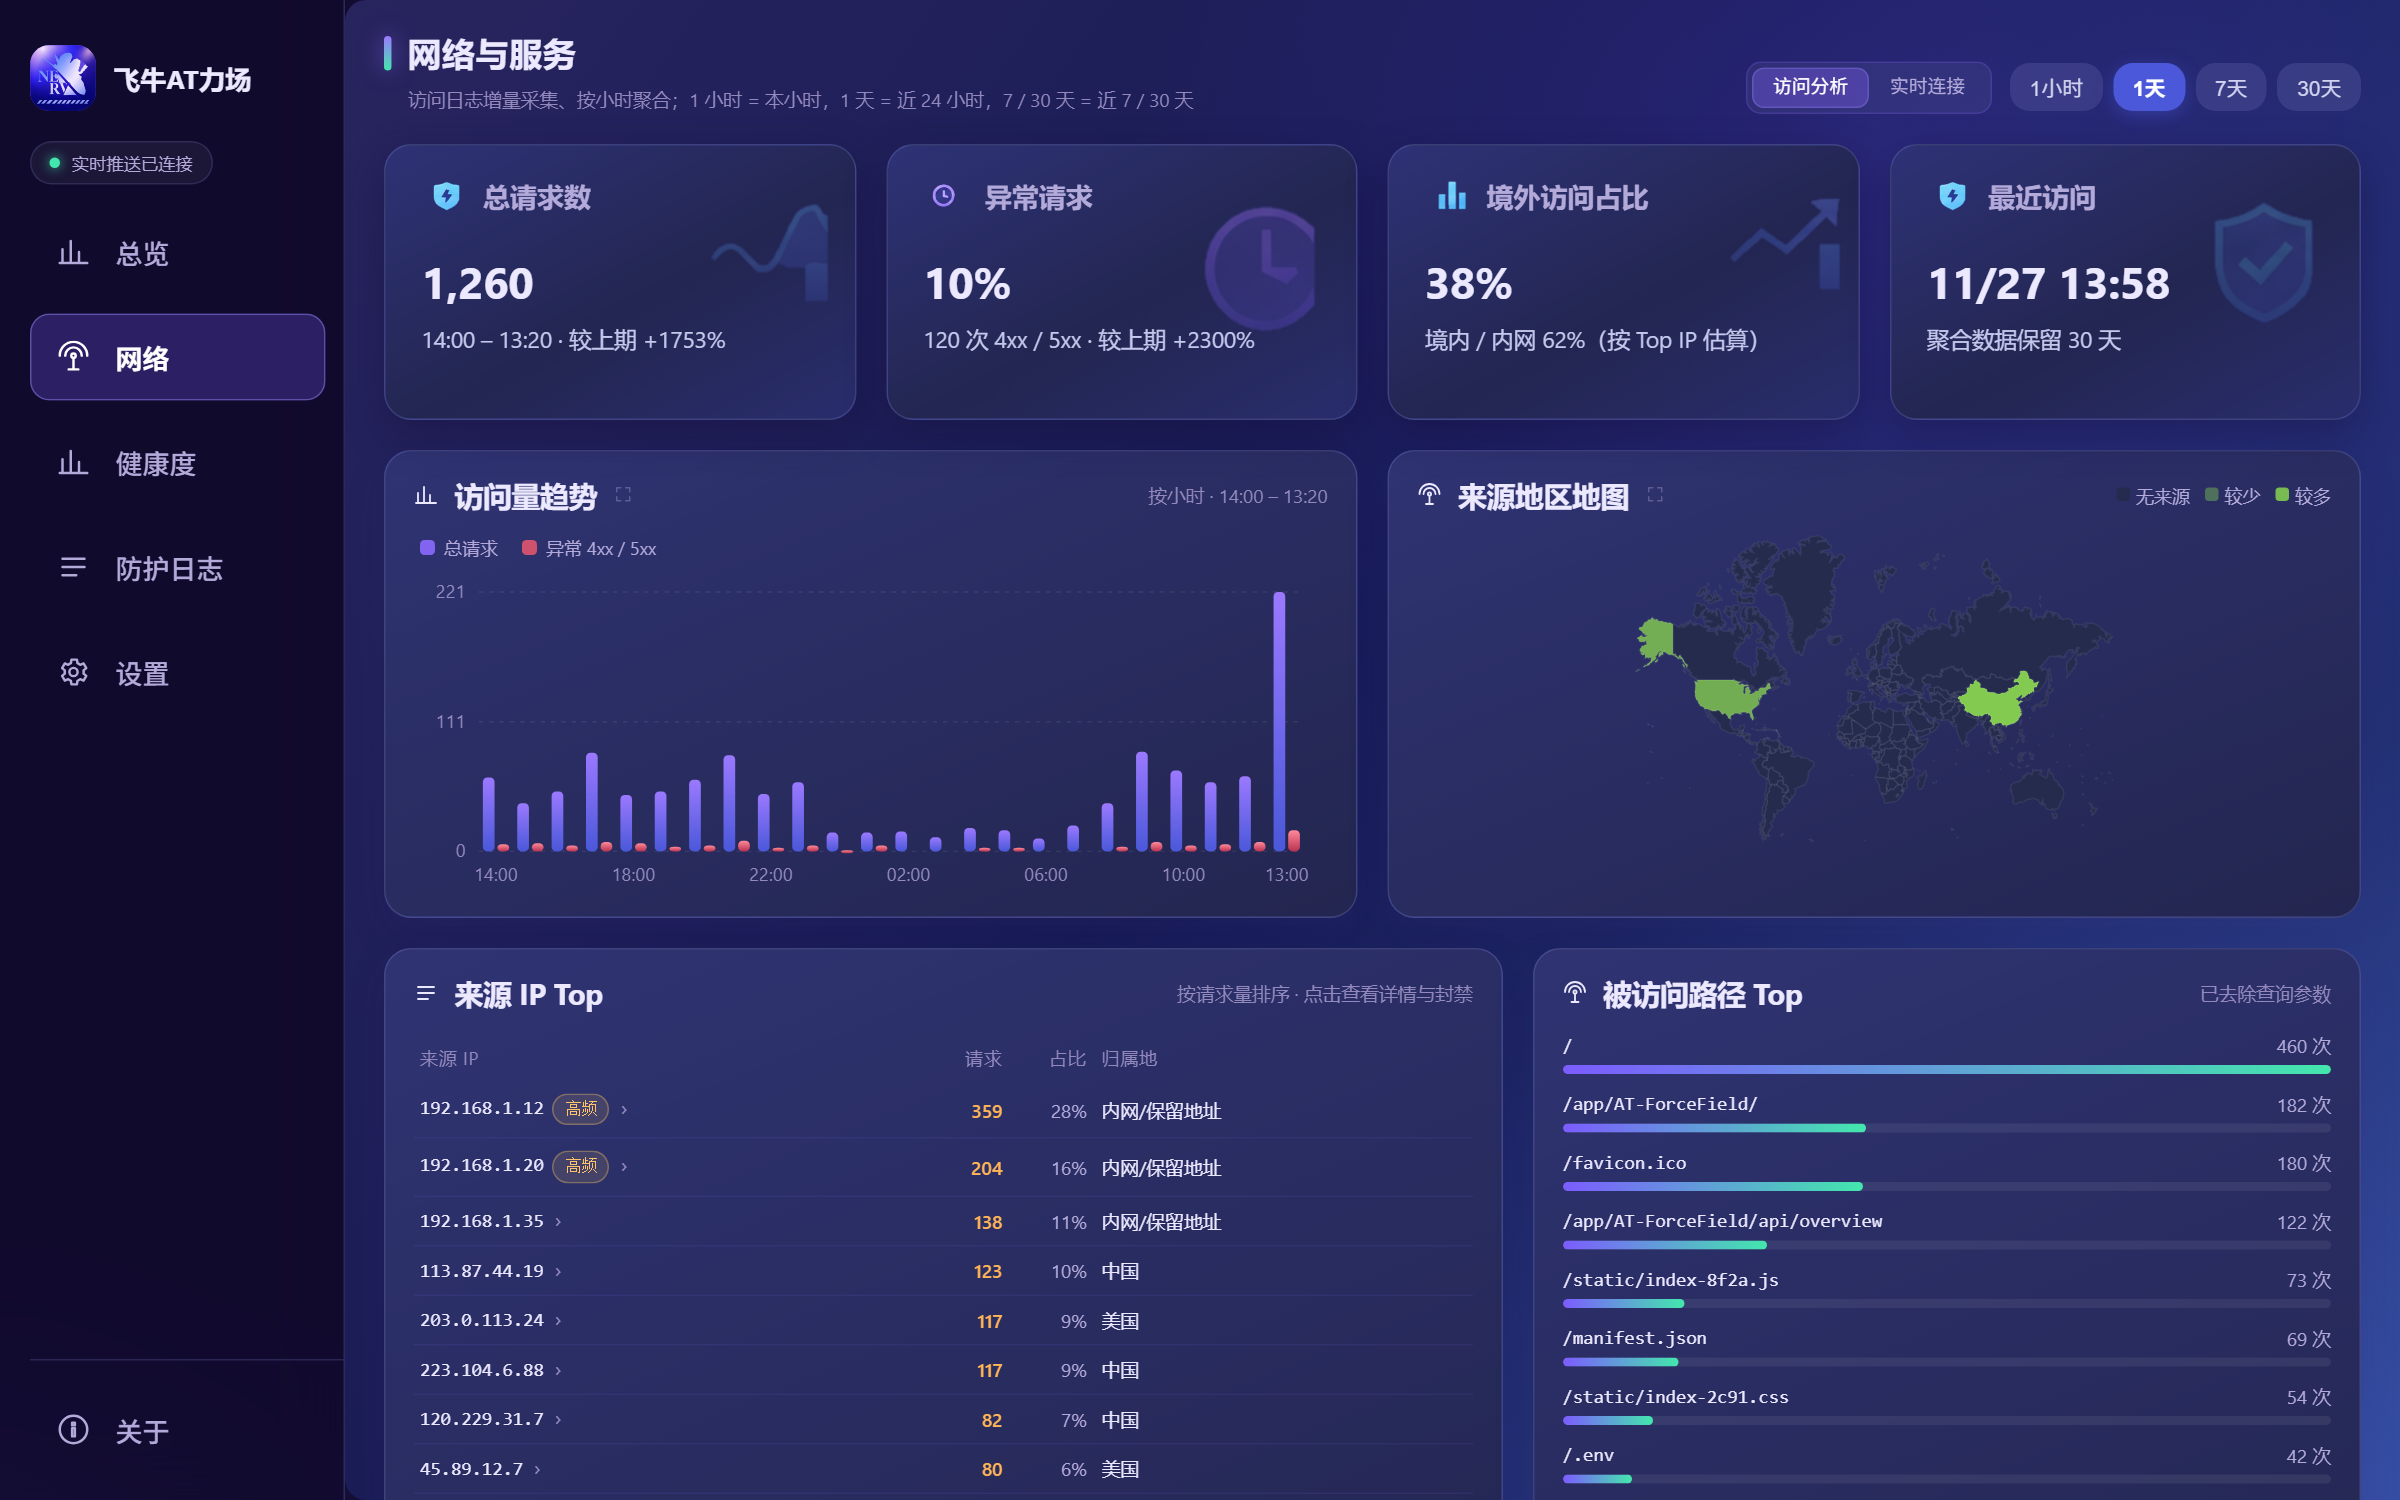
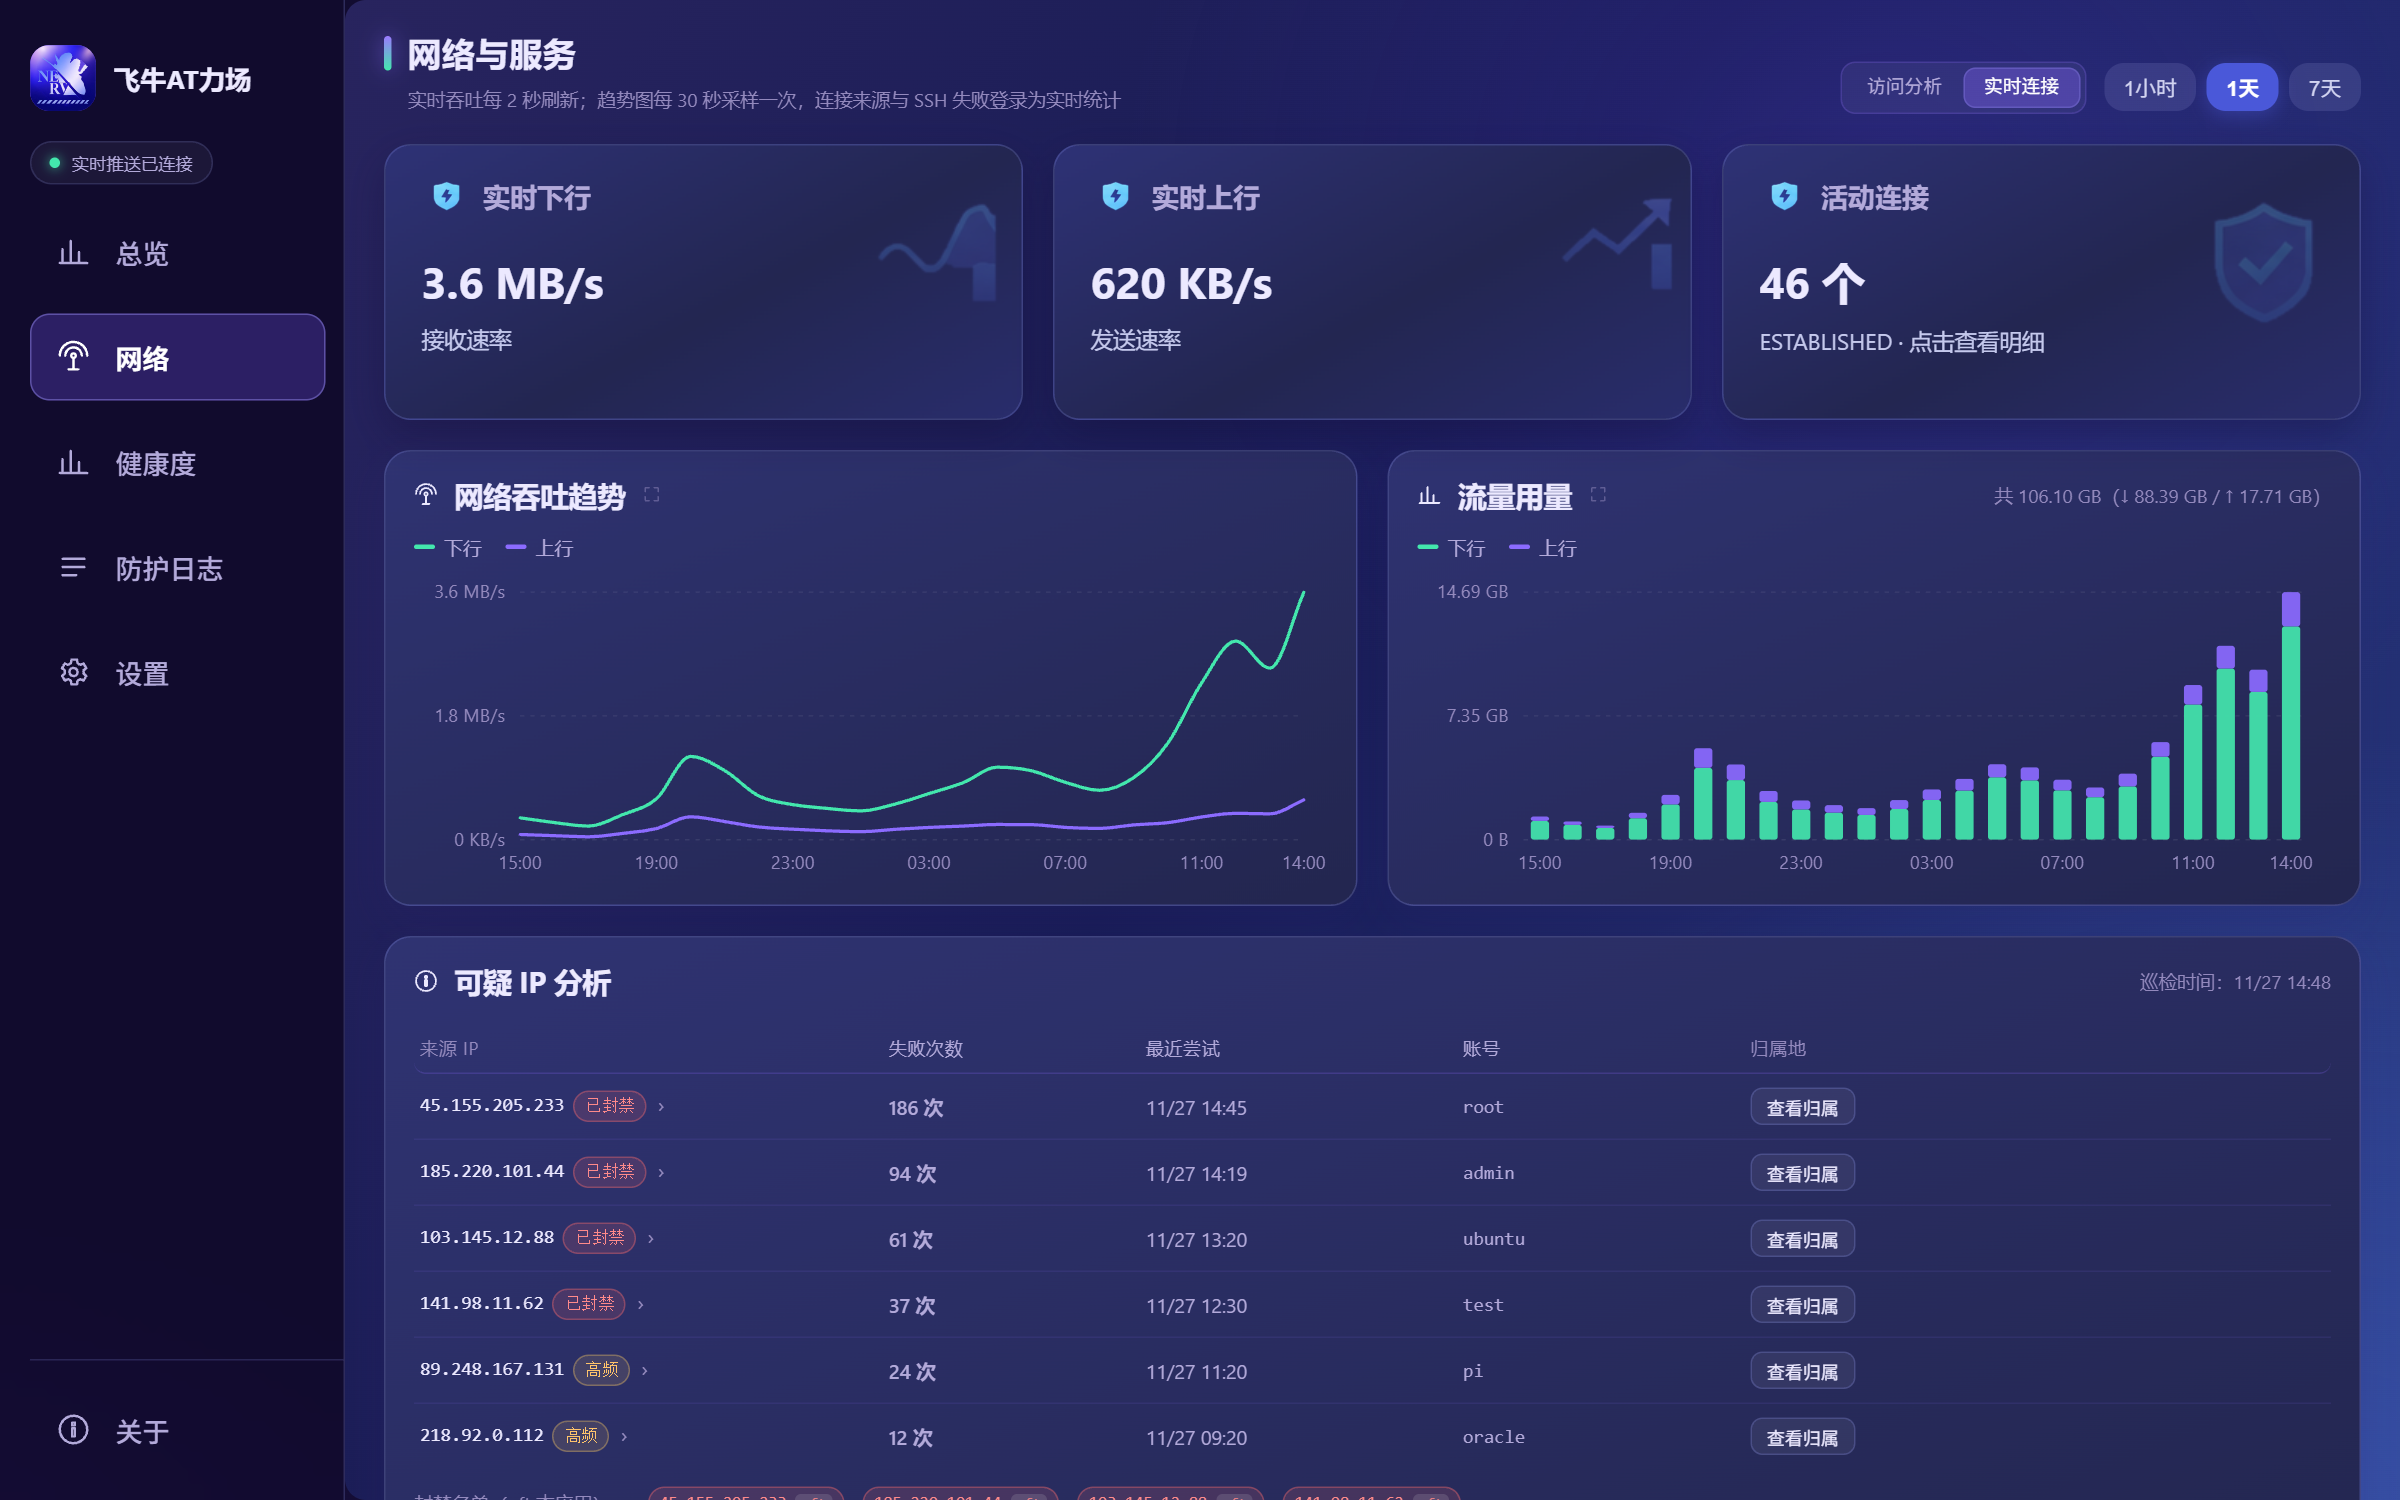
docs: refresh network previews with richer demo data

diff --git a/README.md b/README.md
@@ -66,9 +66,9 @@
 
 ## 界面预览
 
-| 总览 | 网络与服务 |
+| 总览 | 网络与服务（实时连接） |
 | --- | --- |
-| ![总览](docs/screenshots/overview.png) | ![网络](docs/screenshots/network.png) |
+| ![总览](docs/screenshots/overview.png) | ![网络与服务](docs/screenshots/network.png) |
 
 | 健康度 | 防护日志 |
 | --- | --- |
@@ -77,6 +77,12 @@
 | 设置 | 关于 |
 | --- | --- |
 | ![设置](docs/screenshots/settings.png) | ![关于](docs/screenshots/about.png) |
+
+<p align="center">
+  <img src="docs/screenshots/access.png" alt="访问分析：请求趋势、来源地图、来源 IP 与被扫路径" />
+</p>
+
+<p align="center"><sub>网络与服务 · 访问分析：请求趋势、来源地区地图、来源 IP Top 与被扫路径 Top</sub></p>
 
 <p align="center">
   <img src="docs/screenshots/mobile-overview.png" width="30%" alt="手机端总览" />
